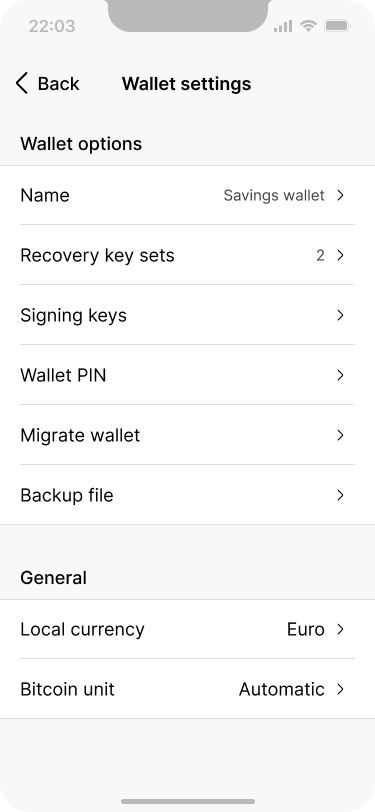
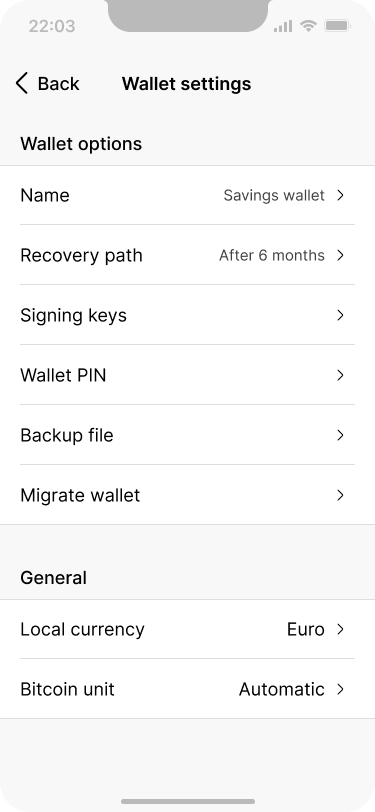
Added wallet backup mockups & more text changes

diff --git a/guide/miniscript-wallet-simple.md b/guide/miniscript-wallet-simple.md
@@ -65,6 +65,13 @@ images_save-for-later:
     - file: save-for-later/save-wallets
       alt:
       caption:
+images_backup:
+    - file: backup/backup-creation
+      alt:
+      caption: 
+    - file: backup/backup-settings
+      alt:
+      caption: 
 images_cosigner-onboarding:
     - file: cosigner-onboarding/cosigner-phone2-add-wallet
       alt:
@@ -183,24 +190,24 @@ https://www.figma.com/community/file/968416729557947210
 
 ---
 
-In this reference design, we look at a variation of the [savings wallet](). Specifically, we design a wallet application that allows users to enable a simple recovery path that provides even more fault tolerance than a regular multi-key wallet. 
+In this reference design, we look at a variation of the [savings wallet reference design](https://bitcoin.design/guide/savings-wallet/). Specifically, we design a wallet application that allows users to enable a simple recovery path in order to provide even more fault tolerance than a regular multi-key wallet. 
 
 ### Prior reading
 
-The use case for this design is relatively simple. However, we will be referencing some advanced concepts and capabilities that are provided by Miniscript. If you are unfamiliar with the topic, please read the [custom spending conditions page](), before diving deeper into this design.
+The use case for this design is relatively simple. However, we will be referencing some advanced bitcoin concepts and capabilities that are provided by [Miniscript](https://bitcoin.design/guide/glossary/#miniscript). If you are unfamiliar with the topic, please read the [custom spending conditions page](https://bitcoin.design/guide/how-it-works/custom-spending-conditions/) before diving deeper into this reference design.
 
 ### Use case
 
-A multi-key wallet offers a number of advantages, especially for storing large amounts of funds. Our users, Bob and Alice, want to create a 2-of-3 multi-key wallet for their savings. Bob will hold the first key while his wife, Alice, will hold a second key. In addition, they have the third key locked away in a safety deposit box. 
+A multi-key wallet offers a number of advantages, especially for storing large amounts of bitcoin. Therefore, Bob and Alice, want to create a 2-of-3 multi-key wallet for their savings. Bob will hold the first key while his wife, Alice, will hold a second key. In addition, they have the third key locked away in a safety deposit box. 
 
-However, the couple worries about a situation where they lose access to two of the keys. In that case, they would lose all of their savings. To protect themselves against this scenario, our application offers them the possibility to enable a recovery path, which automatically lowers the amount of signatures needed to 1-of-3 after 6 months.   
+However, the couple worries about a situation where they lose access to two of the keys. In that case, they would lose all of their savings. To protect themselves against this scenario, our application offers them the possibility to enable a recovery path, which automatically lowers the amount of signatures needed to 1-of-3 after 6 months. This will allow them to lose two keys and still be able to recover their savings. 
 
 ### Wallet creation
 
-The process for creating the wallet is very similar to the one that is covered in the [savings wallet reference design](https://bitcoin.design/guide/savings-wallet/#the-onboarding-experience). The high-level process looks something like this:
+The process for creating the wallet is very similar to the one that is covered in the [savings wallet reference design](https://bitcoin.design/guide/savings-wallet/#the-onboarding-experience). On a high level, these are the steps involved:
 
 1. Choose the primary key scheme used for spending under normal circumstances (2-of-3 in our case).
-2. Import the three extended public keys keys to the application.
+2. Import the three [extended public keys keys](https://bitcoin.design/guide/glossary/#extended-public-key-xpub-ypub-zpub) to the application.
 3. Enable the recovery path.
 4. Download and save the wallet backup.
 
@@ -209,54 +216,74 @@ The main differences for this design is that all signing keys are hardware walle
 
 #### The primary key scheme
 
-Let's start creating the wallet. In our example, we assume our users have a basic understanding of how bitcoin wallets work. Therefore, the application lets them choose from a couple of the most common key schemes. If you are designing your own product, it's important to think about the target audience to determine the options that you offer.
+Let's start creating the wallet. For our product, we assume that our users already have a basic understanding of how bitcoin wallets work. Therefore, the application lets them choose from a couple of the most common key schemes.
 
 {% include image-gallery.html pages = page.images_primary-keyset %}
 
-Some users may need help deciding on the best solution for them. Our application gives them an option to run through a set of questions about their specific needs and suggests a setup based on the answers. Power users will find a "Custom" option, which gives them the freedom to define a key scheme from scratch.  
+Some users may need help deciding on the best solution for them. Our application gives them an option to run through a set of questions about their specific needs and suggests a setup based on the answers. Power users will find a "Custom" option, which gives them the freedom to define a key scheme from scratch.
+
+If you are designing your own product, it is important to think about the target audience to determine the options that you offer.  
 
 #### Save for later
 
-As you can see, creating a multi-key wallet involves a lot of steps in the wallet application as well as on the signing devices. This can take quite a while, especially if you are creating not only one, but multiple key sets for a wallet. It also requires that Bob has all signing keys ready and available beforehand.  
+As you can see, creating a multi-key wallet involves a lot of steps in the wallet application as well as on the corresponding signing devices. This can take quite a while, depending on the chosen key scheme. It also requires that users have all extended public keys ready and available beforehand.  
 
-It is likely that not all users will be able or willing to go through the entire process in one setting. That's why our application offers a feature called "Save for later". It allows Bob to pause the wallet creation process at any time and finish it later. The application saves current state locally on the device, until the wallet is actually created on-chain.
+It is likely that not all users will be able or willing to go through the entire process in one setting. This is why our application offers a feature called "Save for later". It allows users to pause the wallet creation process at any time and pick it up later. The application saves the current state of the wallet locally on the device, until it is actually created on-chain.
 
 {% include image-gallery.html pages = page.images_save-for-later %}
 
 #### Enabling the recovery path
 
-Although recovery recovey paths are a great way to increase fault tolerance, and thus prevent loss of funds, we want this option to be treated as an optional feature that is not forced on users.
+Recovery paths are based on a concept called [timelocks](https://bitcoin.design/guide/how-it-works/custom-spending-conditions/#timelocks). Although they are a great way to increase fault tolerance, and thus prevent loss of funds, we want this option to be treated as an optional feature that is not forced on users.
+
+If the recovery path is enabled, our application uses smart defaults to propose a suitable key scheme, based on the wallet. Since Bob is creating a 2-of-3 wallet, the application will suggest a 1-of-3 recovery path. This recommendation will be different for other wallet types. 
+
+It also suggests that the recovery path will be unlocked after 6 months, if the funds have not been spent. However, Bob can choose a different timeframe.
+
+Our application also provides users to set reminders at different times before the recovery path unlocks.
 
 {% include image-gallery.html pages = page.images_recovery-path-creation %}
 
-### Wallet backup
+Note that the scope of this feature is quite narrow because it is aimed at an audience with basic knowledge of bitcoin. You might want to offer more customization options, based on your own target audience.
 
-Apart from backing up their private keys, users will need the wallet configuration file or [wallet descriptor](https://bitcoin.design/guide/glossary/#output-script-descriptor), if they should ever need to recover their wallet. The wallet descriptor functions like a map that contains all the information necessary for a wallet application to restore the wallet. Without this map, the wallet cannot be recovered. It is, therefore, critically important that users understand this fact and create a backup of the wallet descriptor.
+#### Wallet backup 
 
-The wallet descriptor does not contain any private key data. This means that it's not as critical to protect as your private key. However, since it contains all extended public keys, anybody who finds this file can potentially monitor all transactions in real time. 
+Enabling the recovery path is the final step before the wallet is created on-chain. Once it has been finalized and can be used, our application prompts the user to download the wallet backup file. 
+
+This is important, because users will need the wallet configuration file or the [wallet descriptor](https://bitcoin.design/guide/glossary/#output-script-descriptor), if they should ever need to recover their wallet. The wallet descriptor functions like a map that contains all the information necessary for a wallet application to restore the wallet. Without this map, the wallet cannot be recovered even if you have backups of all private keys. 
+
+{% include image-gallery.html pages = page.images_backup %}
+
+The backup file does not contain any private key data. This means that it is ok to store it digitally in a password manager, for example. However, since it contains all extended public keys, anybody who finds this file can potentially monitor all transactions in real time.
+
+Because they might not want to backup the wallet right away, users will find the backup file and other important information on the wallet settings page at any time. 
+
 
 ### Co-signer onboarding
 
 The next step the co-signers set up the wallet on their end. To make this experience easy and seamless, the application allows Bob to invite Alice in a variety of ways:
 
-1. By displaying a QR code that Alice scans with her app (recommended).
+1. By displaying a QR code that Alice scans with her app.
 2. By sending an invite, which contains the wallet descriptor, over email, Nostr, or any messenger app.  
-3. By providing Alice with a copy of the wallet configuration file that was saved as a backup.
+3. By providing Alice with a copy of the wallet backup file that he saved previously.
 
 {% include image-gallery.html pages = page.images_cosigner-onboarding %}
 
 
 ### Spending from the wallet
 
-Creating transactions and spending from the wallet works like with any other multi-key wallet. We have covered how this works on the [savings wallet reference design](/guide/savings-wallet/#making-small-payments), if you are curious about that.  
+Creating transactions and spending from the wallet works like with any other multi-key wallet. We have covered how this works on the [savings wallet reference design](https://bitcoin.design/guide/savings-wallet/#making-small-payments), if you would like to learn more.  
 
 ### Managing the recovery path
 
-Technically, timelocks are not applied at the wallet level but at the UTXO level. This means that every UTXO has its own timelock, based on the time when it was deposited into the wallet. To prevent the recovery path from kicking in and refreshing the timelock, a UTXO has to be spent and re-deposited back into the wallet. Please refer to the [custom spending conditions page]() for more information about how timelocks work. 
+As mentioned above, recovery paths are powered by timelocks. Technically, however, these timelocks are not applied at the wallet level but at the [UTXO](https://bitcoin.design/guide/glossary/#unspent-transaction-output-utxo) level. This means that every UTXO has its own timelock, based on the time when it was deposited into the wallet. 
 
-So if Bob has three UTXOs in his wallet that he received at different times, he needs to refresh three different timelocks in order to prevent the recovery key set to be activated. This can quickly become cumbersome and costly, as every such transfer implies on-chain transaction fees. 
+To prevent the recovery path from kicking in and refreshing the timelock, a UTXO has to be spent and re-deposited back into the wallet. Please refer to the [custom spending conditions page](https://bitcoin.design/guide/how-it-works/custom-spending-conditions/) for more information about how timelocks work. 
+ 
 
 ##### Preventing recovery path activation
+
+So if Bob has three UTXOs in his wallet which he received at different times, he actually needs to refresh three different timelocks. This can quickly become cumbersome and costly, as every refresh transaction implies on-chain transaction fees.
 
 To reduce this complexity, our application offers a "unified" timelock reset experience by default. This simply means that it uses the UTXO that is closest to being unlocked as the trigger to start the process. In the background, however, all UTXOs are automatically batched together. 
 
@@ -314,9 +341,7 @@ If Bob wants to replace one of the signing devices he can use the new device wit
 So far, we have explored a very simple use case. However, it is possible to create more flexible wallets. We will explore a more advanced use case in the [wallet with emergency key set]() reference design.
 
 **Resources**
-- [Prototype]()
-- [Figma design file]()
-- [Use case]({{ '/guide/designing-products/personal-finance/#savings' | relative_url }})
+- [Figma design file](https://www.figma.com/file/uxZMdWR2HfnKSMC9YWyr2h/Custom-Spending-Conditions?type=design&node-id=5488%3A34453&mode=design&t=V0CzXjW24hJImDHV-1)
 - [Custom spending conditions]({{ '/guide/how-it-works/custom-spending-conditions/' | relative_url }})
 
 ---
